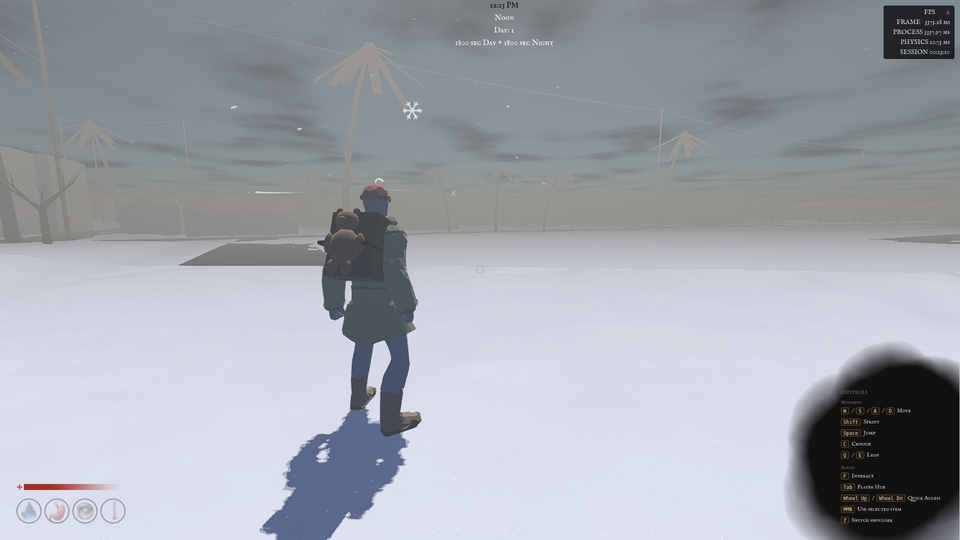
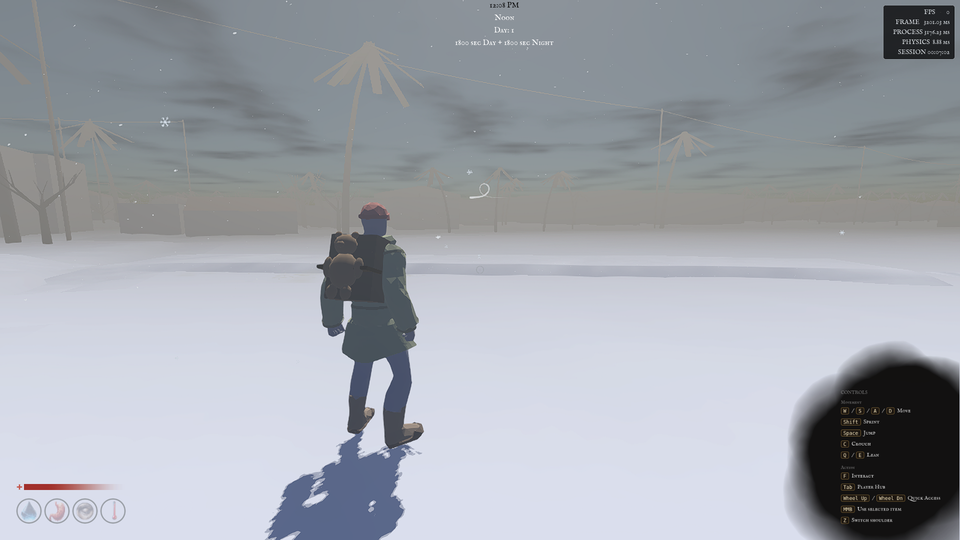
Reality gate: enter 727 square to the doorway; previews reshot on generator .10
The open door leaf swept the lobby corner on the return detour (CI no_stuck).
Street, residential, approach and 727 exterior captures show paving under snow.

Claude-Session: https://claude.ai/code/session_01FdRUFVqiwM8QqYtDvPybeS

diff --git a/docs/runtime_previews/key_west_reality_review/README.md b/docs/runtime_previews/key_west_reality_review/README.md
@@ -3,14 +3,16 @@
 Shot from the real `scenes/world/key_west/key_west_reality.tscn` (World, Henry, TPS camera,
 blizzard weather, deep snow, streaming) with
 `tools/runtime/capture_key_west_reality_set.gd`, generator `kw_chunk_builder.9`, CPU Vulkan
-(lavapipe), 2026-10-13. Downscaled to 960×540.
+(lavapipe), 2026-10-13. Downscaled to 960×540. `street_petronia`, `residential_block`,
+`approach_727` and `exterior_727` were reshot on `kw_chunk_builder.10` (paving under snow,
+buildings across mapped ways removed).
 
 | Shot | What to look at |
 |---|---|
 | `battery_start` | Henry's first view: Fort Zachary Taylor parade ground, deep snow |
 | `battery_door` | the First Exit bunker block set into the fort's courtyard face (game-authored) |
-| `street_petronia` | Petronia Street, Old Town; paving shows through the thin cover in patches |
-| `residential_block` | houses and a draped parking lot |
+| `street_petronia` | Petronia Street, Old Town; streets and sidewalks lie under the snow cover |
+| `residential_block` | houses and a draped parking lot, snowed over like the ground |
 | `vegetation_deep_snow` | lidar trees as bare trees, frozen shrub stems standing out of the snow |
 | `coast_frozen_sea` | the west shore: frozen-sea surface to the horizon, beach loot at Henry's feet |
 | `approach_727` | the open lot west of 727 in the blizzard |
